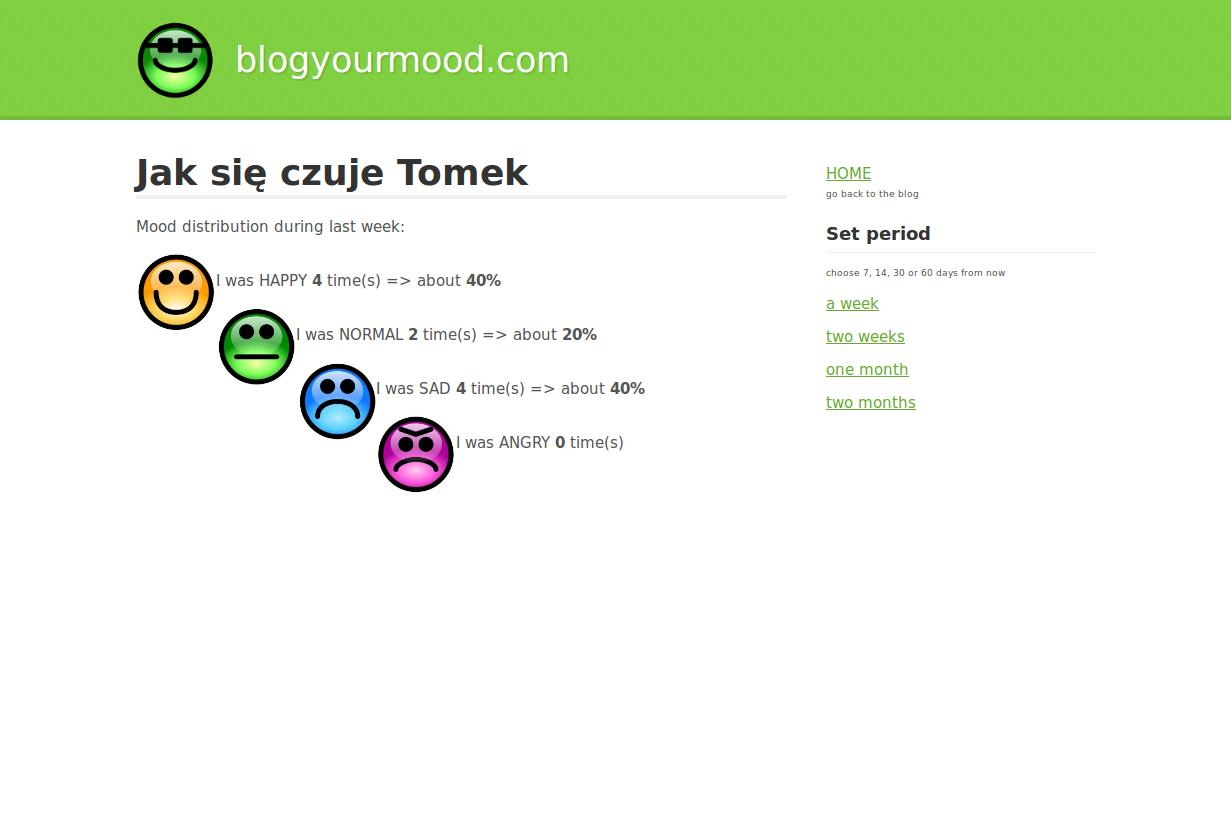
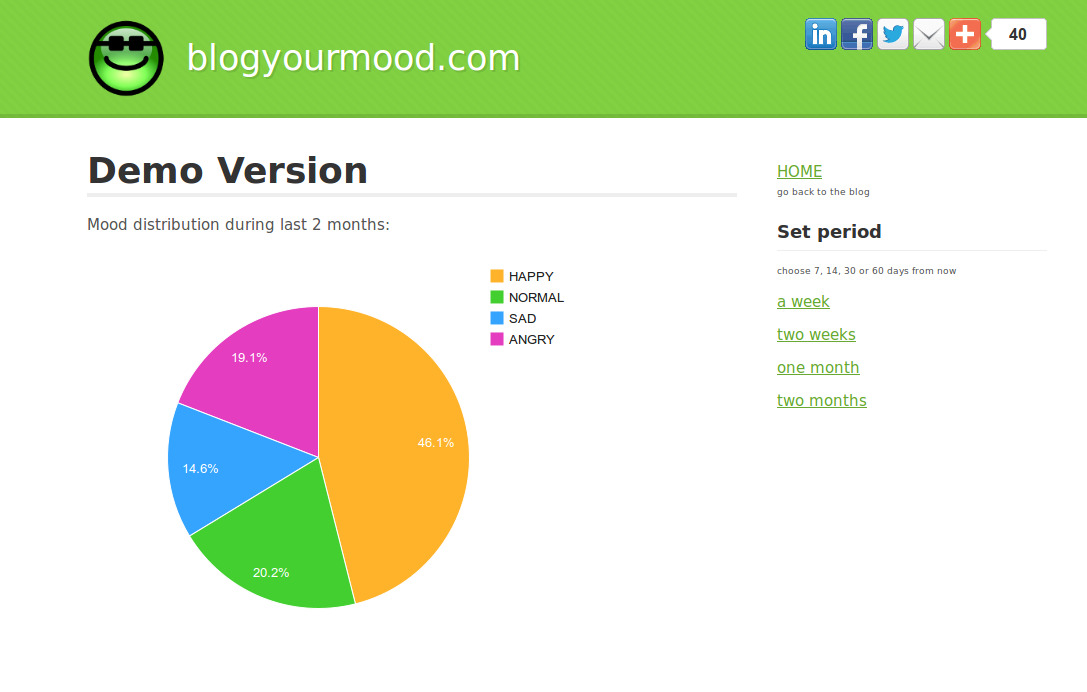
Updated screenshots and index page

Changed region(s): [[0.0, 0.0303, 1.0, 0.8801], [0.7286, 0.0, 0.9715, 0.091], [0.6983, 0.5766, 0.7893, 0.6069]]

diff --git a/app/views/index.scala.html b/app/views/index.scala.html
@@ -23,7 +23,7 @@
 		<image src="@routes.Assets.at("images/face-angry.jpg")" width=150/>
 		</p>
 		<p>
-		You can use it as an online happiness index for your team.<br>
+		You can use it as an <b>online happiness index</b> for your team.<br>
 		Create a blog and share the link with team members.
 		</p>
 		<p>
@@ -33,11 +33,11 @@
 		
 		<h1>Check statistics</h1>
 		<p>		
+		<img src="@routes.Assets.at("images/stats-chart-example.png")" width=150 align="right"/>
 		Check calendar and statistics view for weeks or months.<br>
-		I'm sure you will be surprised!
-		</p>
-		<p>
-		Read more about <a href="/features">our features</a>.
+		I'm sure you will be surprised!<br><br>
+		Read more about <a href="/features">features</a>
+		or try our shared <a href="/demo">demo version</a>
 		</p>
 	</article>
 	
@@ -45,19 +45,22 @@
 		<h3>How to start</h3>
 		<ul class = "points">
 		<li>It is free</li>
-		<li>It is anonymous</li>
-		<li>Email is not required</li>		
+		<li>It is anonymous (no email)</li>
 		</ul>
 		<p>
 		<nav>
 		<a href="/register" class="button">I want to start</a>
 		</nav>
 		</p>
+		<h3>Features</h3>
+		<ul class = "points">
+		<li>calendar view</li>
+		<li>statistics</li>
+		<li>public current mood</li>		
+		</ul>
+		<p>Read more about <a href="/features">features</a></p>		
 		<h3>Demo</h3>
-		<p>
-		Read more about <a href="/features">features</a><br>
-		or try our <a href="/demo">demo version</a>. 
-		</p>
+		<p>Try our <a href="/demo">demo version</a></p>
 
 	</aside>
 
